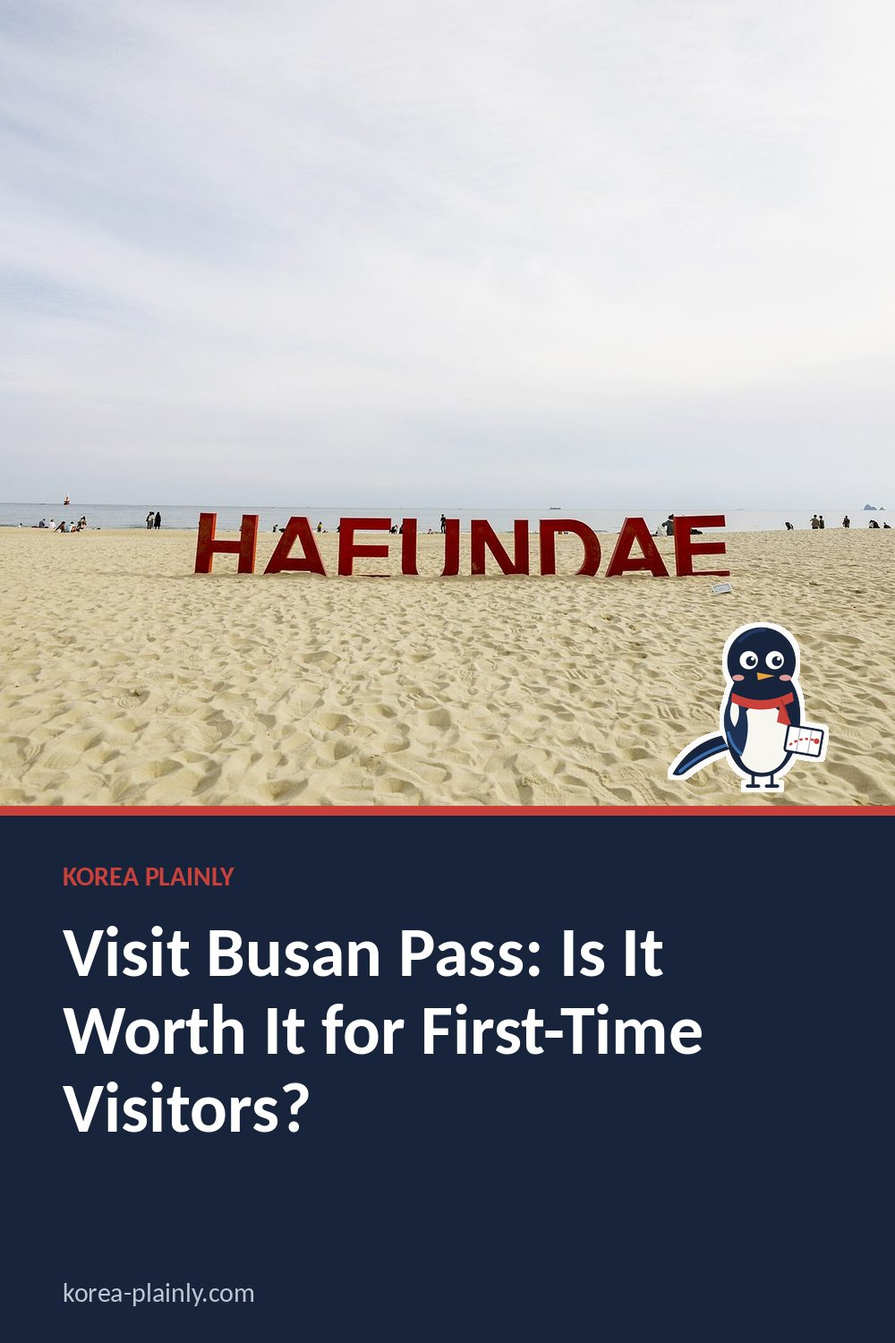
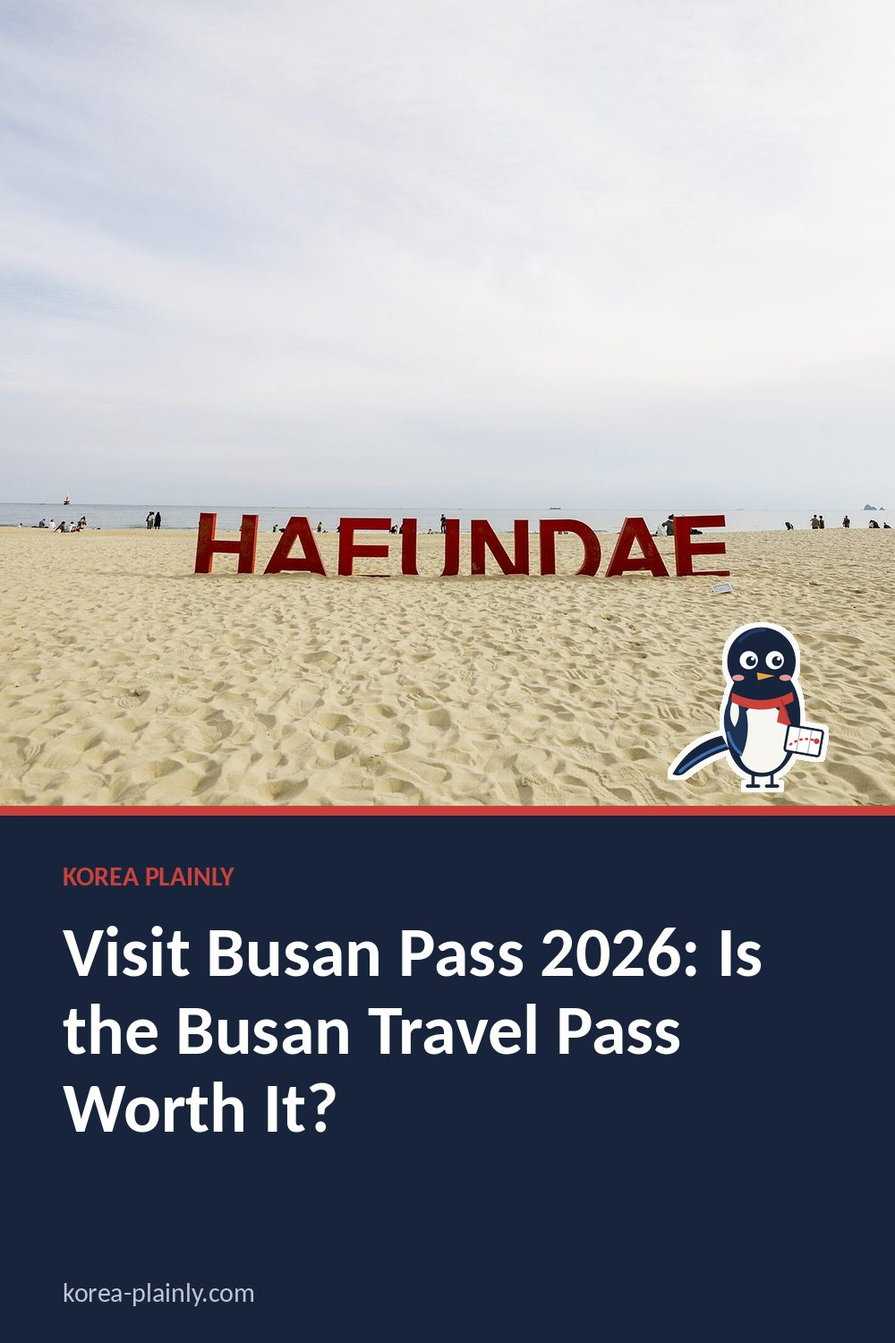
Visit Busan Pass: retitle for 'busan travel pass' and rewrite with 2026 pass types, groups, pick-up points and transport rules
Replaces hedge-heavy text with the four passes (24H, 48H, BIG3, BIG5, approximate 2026 prices),
Group A/B attractions, activation rules, planning by area with stations, Card vs Mobile PASS,
and the top-up rule. New description and dek; one Klook booking box after the buying section.

Claude-Session: https://claude.ai/code/session_01MMQnqHb7x3bbgQLEn6NKYz

Changed region(s): [[0.062, 0.6747, 0.806, 0.8587], [0.806, 0.6747, 0.868, 0.736]]

diff --git a/visit-busan-pass.html b/visit-busan-pass.html
@@ -11,11 +11,11 @@
 >
 
 <link rel="stylesheet" href="style.css?v=20261015-1">
-<title>Visit Busan Pass: Is It Worth It for First-Time Visitors?</title>
+<title>Visit Busan Pass 2026: Is the Busan Travel Pass Worth It?</title>
 
 <meta
   name="description"
-  content="Find out how the Visit Busan Pass works, which Busan attractions can make it worthwhile, and how to plan your days around its time limit."
+  content="Visit Busan Pass 2026: 24H, 48H, BIG3 and BIG5 prices, which attractions are free, where to collect the card and when it beats paying at the gate."
 >
 <link
   rel="canonical"
@@ -29,12 +29,12 @@
 
 <meta
   property="og:title"
-  content="Visit Busan Pass: Is It Worth It for First-Time Visitors?"
+  content="Visit Busan Pass 2026: Is the Busan Travel Pass Worth It?"
 >
 
 <meta
   property="og:description"
-  content="Find out how the Visit Busan Pass works, which Busan attractions can make it worthwhile, and how to plan your days around its time limit."
+  content="Visit Busan Pass 2026: 24H, 48H, BIG3 and BIG5 prices, which attractions are free, where to collect the card and when it beats paying at the gate."
 >
 
 <meta
@@ -59,12 +59,12 @@
 
 <meta
   name="twitter:title"
-  content="Visit Busan Pass: Is It Worth It for First-Time Visitors?"
+  content="Visit Busan Pass 2026: Is the Busan Travel Pass Worth It?"
 >
 
 <meta
   name="twitter:description"
-  content="Find out how the Visit Busan Pass works, which Busan attractions can make it worthwhile, and how to plan your days around its time limit."
+  content="Visit Busan Pass 2026: 24H, 48H, BIG3 and BIG5 prices, which attractions are free, where to collect the card and when it beats paying at the gate."
 >
 
 <meta
@@ -244,12 +244,12 @@ footer {
 <script async src="https://www.googletagmanager.com/gtag/js?id=G-F508WWT8G9"></script><script>window.dataLayer=window.dataLayer||[];function gtag(){dataLayer.push(arguments);}gtag('js',new Date());gtag('config','G-F508WWT8G9');</script>
 <script async src="https://pagead2.googlesyndication.com/pagead/js/adsbygoogle.js?client=ca-pub-7379462117232471" crossorigin="anonymous"></script>
 <style>.kp-date{font-size:13px;color:#62635f;margin:-6px 0 22px}</style>
-<script type="application/ld+json" id="kp-faq-ld">{"@context": "https://schema.org", "@type": "FAQPage", "mainEntity": [{"@type": "Question", "name": "Is the Visit Busan Pass worth it if I’m only staying in Busan for a short time?", "acceptedAnswer": {"@type": "Answer", "text": "It can be worthwhile if you plan to visit several included attractions during the pass’s validity period. Before buying, list the places you genuinely want to see, check which are covered, and compare their regular admission costs with the pass. Leave enough time for travel between attractions; a packed itinerary may not suit every visitor."}}, {"@type": "Question", "name": "Does the Visit Busan Pass include public transportation?", "acceptedAnswer": {"@type": "Answer", "text": "Don’t assume that all transportation is included. What the pass covers can depend on the pass type and its current terms. Check the official inclusions before you buy, and plan separately for getting around Busan if needed. A transit card or individual fares may be useful for parts of your trip that aren’t covered."}}, {"@type": "Question", "name": "Do I need to book attractions before using the Visit Busan Pass?", "acceptedAnswer": {"@type": "Answer", "text": "Requirements can differ from one attraction to another and may change. Before your visit, check each place’s current entry rules, including whether advance reservations are needed and how to show or activate your pass. This is especially helpful if you have a tight schedule or are visiting during a busy travel period."}}]}</script>
 <link rel="stylesheet" href="article.css?v=6">
 <link rel="stylesheet" href="https://fonts.googleapis.com/css2?family=DM+Sans:wght@400;500;600;700&family=Playfair+Display:ital,wght@0,600;1,600&display=swap">
 <link rel="icon" href="/favicon.svg" type="image/svg+xml">
-<script type="application/ld+json" id="kp-article-ld">{"@context": "https://schema.org", "@type": "Article", "headline": "Visit Busan Pass: Is It Worth It for First-Time Visitors?", "description": "Find out how the Visit Busan Pass works, which Busan attractions can make it worthwhile, and how to plan your days around its time limit.", "image": ["https://korea-plainly.com/photo-visit-busan-pass.jpg"], "datePublished": "2026-10-26", "dateModified": "2026-10-26", "author": {"@type": "Person", "name": "Jungsuk Kim", "url": "https://korea-plainly.com/about.html#author"}, "publisher": {"@type": "Organization", "name": "Korea Plainly", "url": "https://korea-plainly.com/"}, "mainEntityOfPage": "https://korea-plainly.com/visit-busan-pass.html"}</script>
-<script type="application/ld+json" id="kp-breadcrumb-ld">{"@context": "https://schema.org", "@type": "BreadcrumbList", "itemListElement": [{"@type": "ListItem", "position": 1, "name": "Home", "item": "https://korea-plainly.com/"}, {"@type": "ListItem", "position": 2, "name": "Guides", "item": "https://korea-plainly.com/guides.html"}, {"@type": "ListItem", "position": 3, "name": "Money", "item": "https://korea-plainly.com/guides.html?category=money"}, {"@type": "ListItem", "position": 4, "name": "Visit Busan Pass: Is It Worth It for First-Time Visitors?", "item": "https://korea-plainly.com/visit-busan-pass.html"}]}</script>
+<script type="application/ld+json" id="kp-faq-ld">{"@context": "https://schema.org", "@type": "FAQPage", "mainEntity": [{"@type": "Question", "name": "Is the Visit Busan Pass worth it for one day in Busan?", "acceptedAnswer": {"@type": "Answer", "text": "Only if you start early and stay on one side of the city. A 24H pass used from opening time around Haeundae and Gijang can beat paying at each gate; one started in the afternoon rarely does. Our one-day Busan itinerary shows a route that does not need it."}}, {"@type": "Question", "name": "Can I use the Visit Busan Pass on the subway?", "acceptedAnswer": {"@type": "Answer", "text": "Only the physical Card PASS, and only after you put your own money on it. No rides are included, and the Mobile PASS cannot be tapped on the Metro or buses at all."}}, {"@type": "Question", "name": "Is it the same as the Discover Seoul Pass?", "acceptedAnswer": {"@type": "Answer", "text": "No. It is a separate pass run by Busan and works only in Busan. If you are also spending days in Seoul, read the Discover Seoul Pass guide and judge each city on its own list."}}]}</script>
+<script type="application/ld+json" id="kp-article-ld">{"@context": "https://schema.org", "@type": "Article", "headline": "Visit Busan Pass 2026: Is the Busan Travel Pass Worth It?", "description": "Visit Busan Pass 2026: 24H, 48H, BIG3 and BIG5 prices, which attractions are free, where to collect the card and when it beats paying at the gate.", "image": ["https://korea-plainly.com/photo-visit-busan-pass.jpg"], "datePublished": "2026-10-26", "dateModified": "2026-11-25", "author": {"@type": "Person", "name": "Jungsuk Kim", "url": "https://korea-plainly.com/about.html#author"}, "publisher": {"@type": "Organization", "name": "Korea Plainly", "url": "https://korea-plainly.com/"}, "mainEntityOfPage": "https://korea-plainly.com/visit-busan-pass.html"}</script>
+<script type="application/ld+json" id="kp-breadcrumb-ld">{"@context": "https://schema.org", "@type": "BreadcrumbList", "itemListElement": [{"@type": "ListItem", "position": 1, "name": "Home", "item": "https://korea-plainly.com/"}, {"@type": "ListItem", "position": 2, "name": "Guides", "item": "https://korea-plainly.com/guides.html"}, {"@type": "ListItem", "position": 3, "name": "Money", "item": "https://korea-plainly.com/guides.html?category=money"}, {"@type": "ListItem", "position": 4, "name": "Visit Busan Pass 2026: Is the Busan Travel Pass Worth It?", "item": "https://korea-plainly.com/visit-busan-pass.html"}]}</script>
 <meta property="article:published_time" content="2026-10-26">
 </head>
 
@@ -280,12 +280,12 @@ MONEY · KOREA GUIDE
 </div>
 
 <h1>
-Visit Busan Pass: Is It Worth It for First-Time Visitors?
+Visit Busan Pass 2026: Is the Busan Travel Pass Worth It?
 </h1>
-<p class="kp-date" data-kp="date">By <a href="about.html#author">Jungsuk Kim</a>, Korea Plainly · Published <time datetime="2026-10-26">26 October 2026</time></p>
+<p class="kp-date" data-kp="date">By <a href="about.html#author">Jungsuk Kim</a>, Korea Plainly · Published <time datetime="2026-10-26">26 October 2026</time> · Updated <time datetime="2026-11-25">25 November 2026</time></p>
 
 <p class="dek">
-Find out how the Visit Busan Pass works, which Busan attractions can make it worthwhile, and how to plan your days around its time limit.
+Visit Busan Pass 2026: 24H, 48H, BIG3 and BIG5 prices, which attractions are free, where to collect the card and when it beats paying at the gate.
 </p>
 
 <img
@@ -297,48 +297,50 @@ Find out how the Visit Busan Pass works, which Busan attractions can make it wor
 
 <article>
 
-<p>Busan’s attractions are spread across the coast and several busy districts, so a sightseeing pass can save money—but only if you use it for places you genuinely want to visit. The Visit Busan Pass covers entry to selected attractions and offers discounts at others. For a first trip, the key question is not how many places are listed, but how many you can comfortably reach before your pass expires.</p>
-<nav class="kp-toc" data-kp="toc" aria-label="On this page"><p>On this page</p><ol><li><a href="#what-the-visit-busan-pass-covers">What the Visit Busan Pass covers</a></li><li><a href="#when-it-is-worth-the-money">When it is worth the money</a></li><li><a href="#pick-a-realistic-itinerary-not-a-rushed-one">Pick a realistic itinerary, not a rushed one</a></li><li><a href="#it-is-not-an-all-in-one-transport-pass">It is not an all-in-one transport pass</a></li><li><a href="#buying-and-using-it-smoothly">Buying and using it smoothly</a></li><li><a href="#so-should-you-buy-one">So, should you buy one?</a></li><li><a href="#frequently-asked-questions">Frequently Asked Questions</a></li></ol></nav>
-<h2 id="what-the-visit-busan-pass-covers">What the Visit Busan Pass covers</h2>
-<p>The pass comes in different formats, including versions based on a time limit and products based on a set number of attractions. What is available can change, so compare the options before buying. Included attractions have featured places such as Busan X the Sky in Haeundae, SEA LIFE Busan Aquarium, Songdo Marine Cable Car, and Lotte World Adventure Busan. Benefits may include free entry at selected spots and discounts elsewhere. Usually, you should plan on using an included attraction benefit once per place, rather than treating the pass as unlimited repeat entry.</p>
-<p>Some attractions are far apart. Busan X the Sky and the aquarium are both in the Haeundae area, while Songdo Cable Car is across the city in Seo-gu. A pass does not remove the travel time between them. Check the current attraction list and any booking or entry conditions on the official Visit Busan Pass website before you decide.</p>
-<h2 id="when-it-is-worth-the-money">When it is worth the money</h2>
-<p>The pass is most useful if you already plan to visit several paid attractions, especially high-priced observatories, theme parks, aquariums, or boat experiences. As a rough 2026 guide, pass prices can fall around ₩50,000–₩90,000, depending on the product and seller. Compare that cost with the admission prices of the specific places you will actually visit; do not count a discount as a saving unless you would have bought that ticket anyway.</p>
-<p>For example, a Haeundae day with Busan X the Sky and SEA LIFE Busan Aquarium can make sense if both are on your list. Add a third eligible activity nearby, such as a yacht tour if it is included in the current benefits, and a multi-attraction option may offer better value. By contrast, if your plans are mostly beaches, markets, and neighbourhood walks, you may spend less by paying for one attraction at a time.</p>
-<h2 id="pick-a-realistic-itinerary-not-a-rushed-one">Pick a realistic itinerary, not a rushed one</h2>
-<p>A 24-hour pass is not automatically a one-day pass. Its validity generally runs from the time it is activated, so check the exact activation rule for your product and avoid starting it late in the day. A 48-hour option gives you more breathing room, but only pays off if you use enough included benefits during that period. Do not plan a full day around attractions that close at different times or require advance booking.</p>
-<p>For a manageable first-day plan, stay around Haeundae: visit the aquarium, walk the beach, and go up to Busan X the Sky. Haeundae Station is on Subway Line 2, and the attractions are reachable on foot from the beach area. For another day, consider the Nampo and Songdo side: BIFF Square and Jagalchi Market are near Nampo Station on Line 1, while Songdo Cable Car requires extra travel. Leave room for hills, transfers, and a meal such as dwaeji-gukbap, pork soup rice.</p>
-<h2 id="it-is-not-an-all-in-one-transport-pass">It is not an all-in-one transport pass</h2>
-<p>Do not assume the Visit Busan Pass includes unlimited subway or bus rides. A physical card may have a transport-card function, but you should check whether it needs a separate balance and how to top it up. The Metro is useful for getting between areas: Line 1 serves Nampo and Seomyeon, while Line 2 connects Seomyeon, Centum City, and Haeundae. A local T-money or Cashbee card is a straightforward option for public transport, separate from attraction admission.</p>
-<p>For navigation, search the attraction’s Korean name in Naver Map. At a convenience store, ask whether you can top up a transport card: “교통카드 충전” (gyotong kadeu chungjeon). Keep some flexibility in your plan; a trip from Haeundae to Songdo is not a quick walk between nearby sights.</p>
-<h2 id="buying-and-using-it-smoothly">Buying and using it smoothly</h2>
-<p>Compare the mobile and physical versions and read the product terms before paying. Confirm whether you need an internet connection to display a mobile pass, whether a reservation is required, and what counts as the first use. Save the pass where you can open it quickly, and show it at the attraction’s ticket desk or designated entry point. Staff may ask to scan a QR code or the card, depending on the format.</p>
-<p>At the attraction, look for “무료 입장” (free entry) or the Visit Busan Pass sign, but follow the staff’s instructions if the pass has a separate redemption counter. Benefits can change, and special experiences may be excluded even when a venue is listed. Check current details on Naver Map or the official Visit Busan Pass site before setting off.</p>
-<h2 id="so-should-you-buy-one">So, should you buy one?</h2>
-<p>For a first-time visitor, the Visit Busan Pass is a good buy when you have two or more eligible paid attractions firmly on your itinerary and can group them by area. It is less attractive for a slow trip built around Gwangalli Beach, Gamcheon Culture Village, Jagalchi Market, and casual café stops, where many of the best experiences do not require a pass. Choose the attractions first, map the travel time second, and buy the pass only if the total admission you expect to use beats its price.</p>
-
-<div class="tip">
-
-<strong>
-Bottom line:
-</strong>
-
-A little preparation can make your
-time in Korea much easier.
-Keep this guide handy and enjoy
-exploring at your own pace.
-
-</div>
-
-
+<p>The Visit Busan Pass is the city's official sightseeing pass for foreign visitors: one card or phone QR code that gets you into a set list of paid attractions without buying tickets at each gate. It can save money on a Haeundae-heavy trip and waste it on one built around beaches and markets. Here is how the four versions work and how to tell which one, if any, fits your plans.</p>
+<nav class="kp-toc" data-kp="toc" aria-label="On this page"><p>On this page</p><ol><li><a href="#the-four-passes-and-what-they-cost">The four passes and what they cost</a></li><li><a href="#time-pass-or-count-pass">Time pass or count pass?</a></li><li><a href="#when-the-pass-pays-off">When the pass pays off</a></li><li><a href="#plan-by-area">Plan by area, not by list</a></li><li><a href="#buying-collecting-and-using-it">Buying, collecting and using it</a></li><li><a href="#it-is-not-a-transport-pass">It is not a transport pass</a></li><li><a href="#frequently-asked-questions">FAQ</a></li></ol></nav>
+<h2 id="the-four-passes-and-what-they-cost">The four passes and what they cost</h2>
+<p>There are two kinds of pass: time passes, which let you into as many listed places as you can reach before the clock runs out, and count passes, which give you a fixed number of entries over a much longer period. Approximate 2026 prices on the official site:</p>
+<ul>
+<li><strong>24H</strong>: about ₩55,000. Unlimited listed attractions for 24 hours from the first one.</li>
+<li><strong>48H</strong>: about ₩85,000. The same, for 48 hours.</li>
+<li><strong>BIG3</strong>: about ₩45,000. One attraction from Group A and two from Group B.</li>
+<li><strong>BIG5</strong>: about ₩65,000. Two from Group A and three from Group B.</li>
+</ul>
+<p>Group A is the expensive end of the list: Busan X the Sky in Haeundae LCT, Lotte World Adventure Busan in Gijang, Skyline Luge Busan and the Busan City Tour Bus have all been in it. Group B is the cheaper end, with places like the Haeundae Blueline Park Beach Train, Songdo Marine Cable Car and Busan Tower in Yongdusan Park. Each attraction can be used once per pass, entry covers basic admission only, and the Blueline Park Sky Capsule (the little pod cars) is not on the free list. The pass is sold only to non-Korean passport holders, and staff may ask to see your passport.</p>
+<h2 id="time-pass-or-count-pass">Time pass or count pass?</h2>
+<p>The 24H and 48H clocks start when your first attraction ticket is issued, not when you buy, and they run in real hours. Start at 10:00 on Saturday and a 24H pass ends at 09:59 on Sunday. Most attractions close in the early evening, so a 24H pass you open at 15:00 gives you maybe three hours of use. Start it at opening time.</p>
+<p>The BIG3 and BIG5 are more relaxed: they stay valid for 180 days after the first entry (within a year of purchase), so you can use one stop on Monday and the next on Thursday. For most first-timers with three or four days in Busan, a count pass is the safer buy, because a rainy morning or a long lunch at Jagalchi costs you nothing.</p>
+<h2 id="when-the-pass-pays-off">When the pass pays off</h2>
+<p>The pass pays off when you would have bought two or three of the big tickets anyway. Lotte World Adventure Busan on its own is one of the most expensive tickets in the city, so a BIG3 that includes it plus two Group B rides is close to a sure saving if you are going there. A Haeundae day that strings together Busan X the Sky, the Beach Train from Mipo to Cheongsapo, and the luge at Gijang suits a 24H pass well.</p>
+<p>It does not pay off if your list is Gwangalli Beach, Gamcheon Culture Village, Huinnyeoul Culture Village, Haedong Yonggungsa Temple and the markets in Nampo. Those are free or cheap. Write down the attractions you would pay for, look up their gate prices on the official site or Naver Map, and add them up before you buy.</p>
+<h2 id="plan-by-area">Plan by area, not by list</h2>
+<p>Busan is long and hilly, and the list spreads from Gijang in the north-east to Songdo in the south-west. Moving between the two ends takes over an hour on the Metro. Group your stops:</p>
+<ul>
+<li><strong>Haeundae and Gijang</strong>: Busan X the Sky (Haeundae Station, Line 2), the Beach Train from Mipo, Skyline Luge and Lotte World Adventure Busan (Osiria Station on the Donghae Line).</li>
+<li><strong>Nampo and Songdo</strong>: Busan Tower above BIFF Square (Nampo Station, Line 1), then a short taxi or bus to Songdo Beach for the cable car over the water.</li>
+<li><strong>Anywhere</strong>: the hop-on hop-off City Tour Bus starts near Busan Station.</li>
+</ul>
+<p>Some venues ask you to book a time slot first, and several museums close on Mondays. If a stop needs a reservation, the official app tells you; do it the night before.</p>
+<h2 id="buying-collecting-and-using-it">Buying, collecting and using it</h2>
+<p>Buy on the official VISIT BUSAN PASS website or app with a card issued outside Korea, or through a reseller such as Klook. Card and Mobile versions cost the same. Choose between them carefully:</p>
+<ul>
+<li><strong>Mobile PASS</strong>: a QR code in the app's MY PASS screen. Nothing to collect, but screenshots and printouts are not accepted, so keep your phone charged and your data or eSIM working. A mobile pass bought from a reseller cannot be added to MY PASS, so follow the reseller's own voucher instructions.</li>
+<li><strong>Card PASS</strong>: a physical card you collect with your voucher and passport. Pick-up points have included the counter on the second floor of Busan Station (KTX), the tourist information centre at Gimhae Airport arrivals, and Olive Young branches in Nampo and Gwangalli. Collect it before your first attraction.</li>
+</ul>
+<p>At each place you show the pass at the ticket office (매표소, maepyoso) and they issue a normal ticket.</p>
+<aside class="kp-aff" data-kp-aff="klook"><p class="kp-aff-k">BOOK AHEAD</p><p class="kp-aff-t">Visit Busan Pass</p><p>If the sums work for your plans, you can buy the pass online before you fly and collect the card in Busan, or use the mobile version.</p><p class="kp-aff-l"><a class="kp-aff-btn" href="https://www.klook.com/activity/81576-visit-busan-pass/?aid=143923" target="_blank" rel="sponsored nofollow noopener">Visit Busan Pass on Klook &rarr;</a></p><p class="kp-aff-d">Affiliate links: if you book through one, Korea Plainly may earn a small commission at no extra cost to you.</p></aside>
+<h2 id="it-is-not-a-transport-pass">It is not a transport pass</h2>
+<p>No subway or bus rides are included. The Card PASS doubles as a rechargeable transport card: top it up with your own cash at a convenience store or a Metro ticket machine, then tap in on the Metro and buses as usual. Ask for 교통카드 충전 (gyotong kadeu chungjeon, "transport card top-up") at the till. That balance has nothing to do with your sightseeing entries. The Mobile PASS has no transport function, so you will still need a T-money card or similar; see the <a href="korea-transit-card-guide.html">Korea transportation card guide</a>.</p>
+<p>Prices, the attraction list and pick-up points change during the year, so check the official site before you pay.</p>
 <section class="faq">
-<h2 id="frequently-asked-questions">Frequently Asked Questions</h2>
-<h3>Is the Visit Busan Pass worth it if I’m only staying in Busan for a short time?</h3>
-<p>It can be worthwhile if you plan to visit several included attractions during the pass’s validity period. Before buying, list the places you genuinely want to see, check which are covered, and compare their regular admission costs with the pass. Leave enough time for travel between attractions; a packed itinerary may not suit every visitor.</p>
-<h3>Does the Visit Busan Pass include public transportation?</h3>
-<p>Don’t assume that all transportation is included. What the pass covers can depend on the pass type and its current terms. Check the official inclusions before you buy, and plan separately for getting around Busan if needed. A transit card or individual fares may be useful for parts of your trip that aren’t covered.</p>
-<h3>Do I need to book attractions before using the Visit Busan Pass?</h3>
-<p>Requirements can differ from one attraction to another and may change. Before your visit, check each place’s current entry rules, including whether advance reservations are needed and how to show or activate your pass. This is especially helpful if you have a tight schedule or are visiting during a busy travel period.</p>
+<h2 id="frequently-asked-questions">FAQ</h2>
+<h3>Is the Visit Busan Pass worth it for one day in Busan?</h3>
+<p>Only if you start early and stay on one side of the city. A 24H pass used from opening time around Haeundae and Gijang can beat paying at each gate; one started in the afternoon rarely does. Our <a href="busan-1-day-itinerary.html">one-day Busan itinerary</a> shows a route that does not need it.</p>
+<h3>Can I use the Visit Busan Pass on the subway?</h3>
+<p>Only the physical Card PASS, and only after you put your own money on it. No rides are included, and the Mobile PASS cannot be tapped on the Metro or buses at all.</p>
+<h3>Is it the same as the Discover Seoul Pass?</h3>
+<p>No. It is a separate pass run by Busan and works only in Busan. If you are also spending days in Seoul, read the <a href="seoul-travel-pass.html">Discover Seoul Pass guide</a> and judge each city on its own list.</p>
 </section>
 
 <!-- kp-kkachi -->

diff --git a/korea-transit-card-guide.html b/korea-transit-card-guide.html
@@ -202,7 +202,7 @@ footer {
 <link rel="stylesheet" href="article.css?v=6">
 <link rel="stylesheet" href="https://fonts.googleapis.com/css2?family=DM+Sans:wght@400;500;600;700&family=Playfair+Display:ital,wght@0,600;1,600&display=swap">
 <script type="application/ld+json" id="kp-faq-ld">{"@context": "https://schema.org", "@type": "FAQPage", "mainEntity": [{"@type": "Question", "name": "What is the best transportation card for tourists in Korea?", "acceptedAnswer": {"@type": "Answer", "text": "A plain T-money card from any convenience store suits most visitors: it works on subways and buses nationwide. Add a Climate Card pass only if you will ride many times a day within Seoul."}}, {"@type": "Question", "name": "Can I top up a T-money card with a credit card?", "acceptedAnswer": {"@type": "Answer", "text": "Not a plastic one: shops and station machines take cash. A T-money card in Apple Wallet can be topped up with a Mastercard issued abroad."}}, {"@type": "Question", "name": "Can two people share one T-money card?", "acceptedAnswer": {"@type": "Answer", "text": "No. A gate lets one person through per tap and the transfer discount only follows one journey, so give each traveller their own card."}}]}</script>
-<script type="application/ld+json" id="kp-article-ld">{"@context": "https://schema.org", "@type": "Article", "headline": "Korea Transportation Card: How to Buy, Top Up and Use T-money", "description": "How to buy a T-money transportation card in Korea, top it up with cash, tap on and off for transfer discounts, and get your balance back.", "image": ["https://korea-plainly.com/thumb-tmoney.jpg"], "datePublished": "2026-10-07", "dateModified": "2026-11-24", "author": {"@type": "Person", "name": "Jungsuk Kim", "url": "https://korea-plainly.com/about.html#author"}, "publisher": {"@type": "Organization", "name": "Korea Plainly", "url": "https://korea-plainly.com/"}, "mainEntityOfPage": "https://korea-plainly.com/korea-transit-card-guide.html"}</script>
+<script type="application/ld+json" id="kp-article-ld">{"@context": "https://schema.org", "@type": "Article", "headline": "Korea Transportation Card: How to Buy, Top Up and Use T-money", "description": "How to buy a T-money transportation card in Korea, top it up with cash, tap on and off for transfer discounts, and get your balance back.", "image": ["https://korea-plainly.com/thumb-tmoney.jpg"], "datePublished": "2026-10-07", "dateModified": "2026-11-25", "author": {"@type": "Person", "name": "Jungsuk Kim", "url": "https://korea-plainly.com/about.html#author"}, "publisher": {"@type": "Organization", "name": "Korea Plainly", "url": "https://korea-plainly.com/"}, "mainEntityOfPage": "https://korea-plainly.com/korea-transit-card-guide.html"}</script>
 <script type="application/ld+json" id="kp-breadcrumb-ld">{"@context": "https://schema.org", "@type": "BreadcrumbList", "itemListElement": [{"@type": "ListItem", "position": 1, "name": "Home", "item": "https://korea-plainly.com/"}, {"@type": "ListItem", "position": 2, "name": "Guides", "item": "https://korea-plainly.com/guides.html"}, {"@type": "ListItem", "position": 3, "name": "Transport", "item": "https://korea-plainly.com/guides.html?category=transport"}, {"@type": "ListItem", "position": 4, "name": "Korea Transportation Card: How to Buy, Top Up and Use T-money", "item": "https://korea-plainly.com/korea-transit-card-guide.html"}]}</script>
 <meta property="article:published_time" content="2026-10-07">
 </head>
@@ -236,7 +236,7 @@ TRANSPORT · KOREA GUIDE
 <h1>
 Korea Transportation Card: How to Buy, Top Up and Use T-money
 </h1>
-<p class="kp-date" data-kp="date">By <a href="about.html#author">Jungsuk Kim</a>, Korea Plainly · Published <time datetime="2026-10-07">7 October 2026</time> · Updated <time datetime="2026-11-24">24 November 2026</time></p>
+<p class="kp-date" data-kp="date">By <a href="about.html#author">Jungsuk Kim</a>, Korea Plainly · Published <time datetime="2026-10-07">7 October 2026</time> · Updated <time datetime="2026-11-25">25 November 2026</time></p>
 
 <p class="dek">
 Where to buy a T-money card, how to top it up with cash or Apple Wallet, Seoul fares and transfers, the Climate Card pass and refunds.

diff --git a/seoul-5-day-itinerary.html b/seoul-5-day-itinerary.html
@@ -248,7 +248,7 @@ footer {
 <link rel="stylesheet" href="https://fonts.googleapis.com/css2?family=DM+Sans:wght@400;500;600;700&family=Playfair+Display:ital,wght@0,600;1,600&display=swap">
 <link rel="icon" href="/favicon.svg" type="image/svg+xml">
 <script type="application/ld+json" id="kp-faq-ld">{"@context": "https://schema.org", "@type": "FAQPage", "mainEntity": [{"@type": "Question", "name": "Is 5 days enough for Seoul?", "acceptedAnswer": {"@type": "Answer", "text": "Yes. Five days covers the main sights, several neighbourhoods and a day trip, at a relaxed pace."}}, {"@type": "Question", "name": "Where should I stay for five days in Seoul?", "acceptedAnswer": {"@type": "Answer", "text": "Somewhere central, such as Myeongdong, Jongno or City Hall, so most days start with a short ride. Hongdae suits travellers who want nightlife."}}, {"@type": "Question", "name": "What is the best day trip from Seoul?", "acceptedAnswer": {"@type": "Answer", "text": "The DMZ is the most unusual; Suwon is the easiest on your own. Nami Island is best in autumn."}}]}</script>
-<script type="application/ld+json" id="kp-article-ld">{"@context": "https://schema.org", "@type": "Article", "headline": "5 Days in Seoul: A Relaxed Itinerary for First-Timers", "description": "Five days in Seoul for first-time visitors: palaces and hanok lanes, markets and Namsan, Hongdae and the Han River, Gangnam and Jamsil, and a day trip to the DMZ or Suwon.", "image": ["https://korea-plainly.com/photo-seoul-5-day-itinerary.jpg"], "datePublished": "2026-10-15", "dateModified": "2026-11-09", "author": {"@type": "Person", "name": "Jungsuk Kim", "url": "https://korea-plainly.com/about.html#author"}, "publisher": {"@type": "Organization", "name": "Korea Plainly", "url": "https://korea-plainly.com/"}, "mainEntityOfPage": "https://korea-plainly.com/seoul-5-day-itinerary.html"}</script>
+<script type="application/ld+json" id="kp-article-ld">{"@context": "https://schema.org", "@type": "Article", "headline": "5 Days in Seoul: A Relaxed Itinerary for First-Timers", "description": "Five days in Seoul for first-time visitors: palaces and hanok lanes, markets and Namsan, Hongdae and the Han River, Gangnam and Jamsil, and a day trip to the DMZ or Suwon.", "image": ["https://korea-plainly.com/photo-seoul-5-day-itinerary.jpg"], "datePublished": "2026-10-15", "dateModified": "2026-11-25", "author": {"@type": "Person", "name": "Jungsuk Kim", "url": "https://korea-plainly.com/about.html#author"}, "publisher": {"@type": "Organization", "name": "Korea Plainly", "url": "https://korea-plainly.com/"}, "mainEntityOfPage": "https://korea-plainly.com/seoul-5-day-itinerary.html"}</script>
 <script type="application/ld+json" id="kp-breadcrumb-ld">{"@context": "https://schema.org", "@type": "BreadcrumbList", "itemListElement": [{"@type": "ListItem", "position": 1, "name": "Home", "item": "https://korea-plainly.com/"}, {"@type": "ListItem", "position": 2, "name": "Guides", "item": "https://korea-plainly.com/guides.html"}, {"@type": "ListItem", "position": 3, "name": "Travel Basics", "item": "https://korea-plainly.com/guides.html?category=travel"}, {"@type": "ListItem", "position": 4, "name": "5 Days in Seoul: A Relaxed Itinerary for First-Timers", "item": "https://korea-plainly.com/seoul-5-day-itinerary.html"}]}</script>
 <meta property="article:published_time" content="2026-10-15">
 </head>
@@ -282,7 +282,7 @@ TRAVEL BASICS · ITINERARY
 <h1>
 5 Days in Seoul: A Relaxed Itinerary for First-Timers
 </h1>
-<p class="kp-date" data-kp="date">By <a href="about.html#author">Jungsuk Kim</a>, Korea Plainly · Published <time datetime="2026-10-15">15 October 2026</time> · Updated <time datetime="2026-11-09">9 November 2026</time></p>
+<p class="kp-date" data-kp="date">By <a href="about.html#author">Jungsuk Kim</a>, Korea Plainly · Published <time datetime="2026-10-15">15 October 2026</time> · Updated <time datetime="2026-11-25">25 November 2026</time></p>
 
 <p class="dek">
 Five days in Seoul for first-time visitors: palaces and hanok lanes, markets and Namsan, Hongdae and the Han River, Gangnam and Jamsil, and a day trip to the DMZ or Suwon.

diff --git a/seoul-travel-pass.html b/seoul-travel-pass.html
@@ -352,7 +352,7 @@ exploring at your own pace.
 <!-- /kp-kkachi -->
 <section class="related-guides">
 <h2>Related guides</h2>
-<div class="kp-related"><a href="visit-busan-pass.html"><img src="photo-visit-busan-pass.jpg" alt="" loading="lazy" srcset="img/photo-visit-busan-pass.b6c2aa2b.w480.webp 480w, img/photo-visit-busan-pass.b6c2aa2b.w800.webp 800w, img/photo-visit-busan-pass.b6c2aa2b.w1200.webp 1200w, photo-visit-busan-pass.jpg 1600w" sizes="(max-width: 600px) 100vw, (max-width: 1000px) 50vw, 400px" decoding="async"><span>Visit Busan Pass: Is It Worth It for First-Time Visitors?</span></a><a href="seoul-3-day-itinerary.html"><img src="photo-seoul-3-day-itinerary.jpg" alt="" loading="lazy" srcset="img/photo-seoul-3-day-itinerary.6f9c95fd.w480.webp 480w, img/photo-seoul-3-day-itinerary.6f9c95fd.w800.webp 800w, img/photo-seoul-3-day-itinerary.6f9c95fd.w1200.webp 1200w, photo-seoul-3-day-itinerary.jpg 1600w" sizes="(max-width: 600px) 100vw, (max-width: 1000px) 50vw, 400px" decoding="async"><span>3 Days in Seoul: A First-Timer&#x27;s Itinerary</span></a><a href="seoul-5-day-itinerary.html"><img src="photo-seoul-5-day-itinerary.jpg" alt="" loading="lazy" srcset="img/photo-seoul-5-day-itinerary.e278facb.w480.webp 480w, img/photo-seoul-5-day-itinerary.e278facb.w800.webp 800w, img/photo-seoul-5-day-itinerary.e278facb.w1200.webp 1200w, photo-seoul-5-day-itinerary.jpg 1600w" sizes="(max-width: 600px) 100vw, (max-width: 1000px) 50vw, 400px" decoding="async"><span>5 Days in Seoul: A Relaxed Itinerary for First-Timers</span></a></div>
+<div class="kp-related"><a href="visit-busan-pass.html"><img src="photo-visit-busan-pass.jpg" alt="" loading="lazy" srcset="img/photo-visit-busan-pass.b6c2aa2b.w480.webp 480w, img/photo-visit-busan-pass.b6c2aa2b.w800.webp 800w, img/photo-visit-busan-pass.b6c2aa2b.w1200.webp 1200w, photo-visit-busan-pass.jpg 1600w" sizes="(max-width: 600px) 100vw, (max-width: 1000px) 50vw, 400px" decoding="async"><span>Visit Busan Pass 2026: Is the Busan Travel Pass Worth It?</span></a><a href="seoul-3-day-itinerary.html"><img src="photo-seoul-3-day-itinerary.jpg" alt="" loading="lazy" srcset="img/photo-seoul-3-day-itinerary.6f9c95fd.w480.webp 480w, img/photo-seoul-3-day-itinerary.6f9c95fd.w800.webp 800w, img/photo-seoul-3-day-itinerary.6f9c95fd.w1200.webp 1200w, photo-seoul-3-day-itinerary.jpg 1600w" sizes="(max-width: 600px) 100vw, (max-width: 1000px) 50vw, 400px" decoding="async"><span>3 Days in Seoul: A First-Timer&#x27;s Itinerary</span></a><a href="seoul-5-day-itinerary.html"><img src="photo-seoul-5-day-itinerary.jpg" alt="" loading="lazy" srcset="img/photo-seoul-5-day-itinerary.e278facb.w480.webp 480w, img/photo-seoul-5-day-itinerary.e278facb.w800.webp 800w, img/photo-seoul-5-day-itinerary.e278facb.w1200.webp 1200w, photo-seoul-5-day-itinerary.jpg 1600w" sizes="(max-width: 600px) 100vw, (max-width: 1000px) 50vw, 400px" decoding="async"><span>5 Days in Seoul: A Relaxed Itinerary for First-Timers</span></a></div>
 </section>
 
 </article>

diff --git a/guides.html b/guides.html
@@ -2535,11 +2535,11 @@ MONEY · NEW
 </small>
 
 <h2>
-Visit Busan Pass: Is It Worth It for First-Time Visitors?
+Visit Busan Pass 2026: Is the Busan Travel Pass Worth It?
 </h2>
 
 <p>
-Find out how the Visit Busan Pass works, which Busan attractions can make it worthwhile, and how to plan your days around its time limit.
+Visit Busan Pass 2026: 24H, 48H, BIG3 and BIG5 prices, which attractions are free, where to collect the card and when it beats paying at the gate.
 </p>
 
 <span class="guide-arrow">
